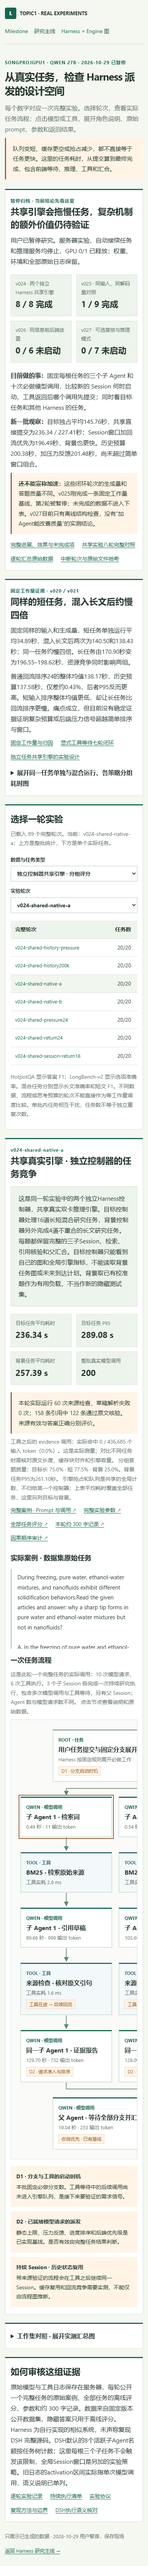
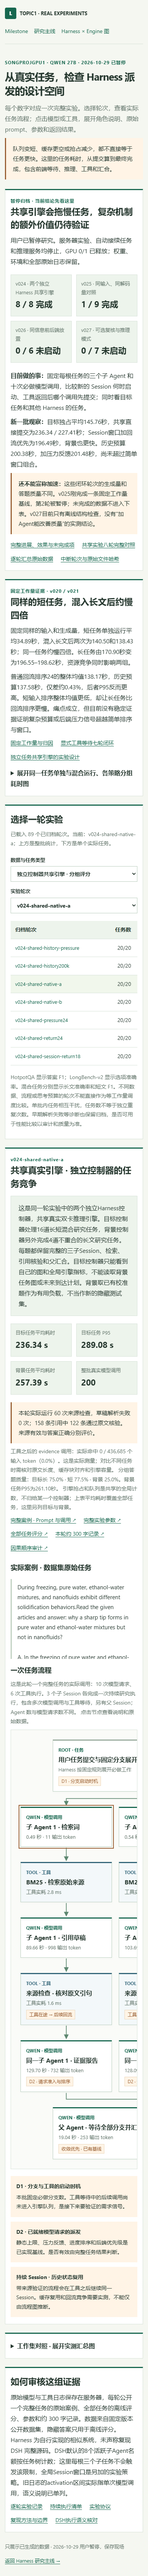
Fix UTF-8 Chinese experiment records and paused navigation status

Changed region(s): [[0.0308, 0.0311, 0.9231, 0.9954]]

diff --git a/LLM_Optimization_Milestone/topic1-harness-engine.html b/LLM_Optimization_Milestone/topic1-harness-engine.html
@@ -15,7 +15,7 @@
 <div class="shell">
   <header class="top"><div class="brand"><b>L</b>LLM OPTIMIZATION · TOPIC1</div><nav class="nav" aria-label="页面导航"><a href="LLM_Optimization_Milestone.html">Milestone</a><a href="topic1-four-workflows.html#harness-engine">交互派发图</a><a href="topic1-harness-engine-study-20261029.md">完整分析与实验方案</a><a href="topic1-harness-lifecycle.html">DSH 实现背景</a><a href="topic1-experiments.html">真实实验与原始调用</a></nav></header>
   <main>
-    <section class="hero"><p class="eyebrow">CURRENT FOCUS · HARNESS ↔ ENGINE · 2026-10-29</p><h1>前端派发改变的，<br>不止当前队列</h1><p class="lead">研究 Harness 如何结合推理引擎状态，决定 DAG 何时展开、当前工作如何分波派发。先从任务推进与资源代价的冲突寻找痛点，再用真实执行验证；不限于某个 Harness 的实例生命周期。</p><div class="status"><span class="tag">主线：动态 DAG 的展开与派发</span><span class="tag">实现载体 ≠ 研究边界</span><span class="tag hyp">研究假设 · 尚无实测收益或新颖性结论</span></div></section>
+    <section class="hero"><p class="eyebrow">CURRENT FOCUS · HARNESS ↔ ENGINE · 2026-10-29</p><h1>前端派发改变的，<br>不止当前队列</h1><p class="lead">研究 Harness 如何结合推理引擎状态，决定 DAG 何时展开、当前工作如何分波派发。先从任务推进与资源代价的冲突寻找痛点，再用真实执行验证；不限于某个 Harness 的实例生命周期。</p><div class="status"><span class="tag">主线：动态 DAG 的展开与派发</span><span class="tag">实现载体 ≠ 研究边界</span><span class="tag hyp">已实测干扰 · 机制额外收益待验证 · 已暂停</span></div></section>
 
     <section class="panel" aria-labelledby="question"><h2 id="question">要优化的到底是什么？</h2><div class="thesis">任务语义决定一次执行的价值，引擎状态决定它的代价；而这次执行，又会改变后续负载。</div><p class="intro">目标是让用户更早得到有效的最终结果，并在相同质量与资源下完成更多任务。可见队列变短、单次调用变快，都不足以单独证明成功。</p><div class="split"><div class="box"><h3>Harness 知道：接下来可能发生什么</h3><p>已揭示依赖、结果如何汇合、哪些分支尚未启动、哪些工作正在等工具、哪些探索允许省略。未来的完整图和准确工具输出通常未知。</p></div><div class="box"><h3>Engine 知道：现在做它实际有多贵</h3><p>模型队列、实际 KV 驻留与命中、额外 prefill、batch 干扰、可分配容量。空闲显存和请求数无法独立代表完整执行成本。</p></div></div><div class="exchange"><div><b>Harness → Engine · 任务与工作信息</b>依赖、当前合法调用、已知展开规则、工具中工作与不确定性。</div><div><b>Engine → Harness · 执行成本与状态反馈</b>真实队列、容量与缓存情况、接受或失败结果；由引擎最终核验容量。</div></div><p class="footnote">Workflow 定义哪些工作合法、什么算完成；Harness 负责把它推进成具体调用；Engine 决定资源如何执行。协同可以跨这三层，不能都叫“调整 Agent 数”。</p></section>
 
@@ -34,7 +34,7 @@
 
     <section class="panel"><h2>最关键的反问：后端拿到同样信息，能不能做？</h2><div class="split"><div class="box"><h3>仅改变已就绪请求的顺序</h3><p>如果工作与 prompt 都已确定，前端排队通常能被有相同 DAG 信息的后端策略替代。必须比较同信息的工作流感知后端，防止把排队从一层搬到另一层。</p></div><div class="box"><h3>改变请求形成之前的工作</h3><p>在分支触发工具之前选择启动时机；利用部分结果决定是否展开可选工作；暴露动态生成图的已知规则。这些动作需要 Harness 语义或回调，也是更值得检验的控制空间。</p></div></div><div class="boundary">即使动作发生在 Harness，也可能由后端通过回调发起。比较相同信息、相同动作权限后，剩下的机制收益才有说服力。新的协议名字或代码位置不足以形成贡献。</div></section>
 
-    <section class="panel" id="experiments"><h2>先做两个实验，回答不同的问题</h2><div class="split"><article class="experiment"><p class="eyebrow">E1 · 必做工作固定</p><h3>看见当前请求之外的工作，有没有价值？</h3><p><b>首选载体：</b>ODR 的 supervisor → researchers → 搜索／阅读 → 汇总；先量实际并发与工具中工作。递归研究和窄前沿条件检索作边界。</p><p><b>动作：</b>分波启动已获准分支、暂缓／提交合法调用。固定必做工作与原始配置，不靠减任务获益。</p><p><b>对照：</b>原生调度 → 引擎压力 → DAG＋缓存 → 在途工作与简单背压 → 联合展开；再加同信息、同动作权限的后端对照。</p><p><b>结果：</b>用户提交到有效最终结果的 P50/P95、按时完成任务数、两层等待总和、实际 KV／prefill、工具延迟、公平性和控制开销。</p></article><article class="experiment"><p class="eyebrow">E2 · 工作量允许变化</p><h3>部分结果与实际资源代价，是否应该共同决定扩展？</h3><p><b>条件：</b>应用有可选工作与有效在线验证，例如代码公开测试；隐藏测试仅离线评分。</p><p><b>动作：</b>下一候选何时启动、失败后是否继续、可选 review／迭代；必做工作不受影响。</p><p><b>对照：</b>全部并行、串行失败再展开、固定波次、压力策略、质量反馈，以及 Murakkab／INFRAMIND 相关机制组合。</p><p><b>结果：</b>质量—任务耗时—实际成本曲线，及给其他任务带来的收益。不能只报少生成几个 token。</p></article></div><details><summary>实验可信度：必须防止哪些假收益？</summary><div class="detail-body"><p><b>不转移排队：</b>计时从用户任务提交开始，包括前端等待。不能只看 Engine queue 或 TTFT。</p><p><b>不偷看未来：</b>在线使用已揭示图、工具已等待时长与历史分布；准确返回时间只可用于标明的上界对照。</p><p><b>不固定错误到达时间：</b>回放按依赖与相对工具时长推进；修改派发以后，原始绝对请求到达时间不再有效。录制 prompt/结果回放只能诊断系统效应，后续仍需真实闭环。</p><p><b>不偷换 ODR 配置：</b>原生并发配置还会进入规划 prompt，超出的调用会收到错误。固定原配置，在已获准工作外加分波，避免把任务删减当调度收益。</p><p><b>不假定宽并发：</b>生产研究曾观察到很少的兄弟请求执行重叠；先测目标 workload。若前沿长期只有一个节点，就检查阶段衔接，不编造宽 fan-out 动机。</p></div></details><p class="footnote">已在 songprojgpu1 接入真实 Qwen 27B 引擎，正在检验工作集、工具回流和派发机制。<a href="topic1-experiments.html">查看真实流程、逐轮指标与完整 Prompt</a>。具体信号、动作、比较组、消融与继续条件见 <a href="topic1-harness-engine-study-20261029.md">完整实验方案</a>。</p></section>
+    <section class="panel" id="experiments"><h2>先做两个实验，回答不同的问题</h2><div class="split"><article class="experiment"><p class="eyebrow">E1 · 必做工作固定</p><h3>看见当前请求之外的工作，有没有价值？</h3><p><b>首选载体：</b>ODR 的 supervisor → researchers → 搜索／阅读 → 汇总；先量实际并发与工具中工作。递归研究和窄前沿条件检索作边界。</p><p><b>动作：</b>分波启动已获准分支、暂缓／提交合法调用。固定必做工作与原始配置，不靠减任务获益。</p><p><b>对照：</b>原生调度 → 引擎压力 → DAG＋缓存 → 在途工作与简单背压 → 联合展开；再加同信息、同动作权限的后端对照。</p><p><b>结果：</b>用户提交到有效最终结果的 P50/P95、按时完成任务数、两层等待总和、实际 KV／prefill、工具延迟、公平性和控制开销。</p></article><article class="experiment"><p class="eyebrow">E2 · 工作量允许变化</p><h3>部分结果与实际资源代价，是否应该共同决定扩展？</h3><p><b>条件：</b>应用有可选工作与有效在线验证，例如代码公开测试；隐藏测试仅离线评分。</p><p><b>动作：</b>下一候选何时启动、失败后是否继续、可选 review／迭代；必做工作不受影响。</p><p><b>对照：</b>全部并行、串行失败再展开、固定波次、压力策略、质量反馈，以及 Murakkab／INFRAMIND 相关机制组合。</p><p><b>结果：</b>质量—任务耗时—实际成本曲线，及给其他任务带来的收益。不能只报少生成几个 token。</p></article></div><details><summary>实验可信度：必须防止哪些假收益？</summary><div class="detail-body"><p><b>不转移排队：</b>计时从用户任务提交开始，包括前端等待。不能只看 Engine queue 或 TTFT。</p><p><b>不偷看未来：</b>在线使用已揭示图、工具已等待时长与历史分布；准确返回时间只可用于标明的上界对照。</p><p><b>不固定错误到达时间：</b>回放按依赖与相对工具时长推进；修改派发以后，原始绝对请求到达时间不再有效。录制 prompt/结果回放只能诊断系统效应，后续仍需真实闭环。</p><p><b>不偷换 ODR 配置：</b>原生并发配置还会进入规划 prompt，超出的调用会收到错误。固定原配置，在已获准工作外加分波，避免把任务删减当调度收益。</p><p><b>不假定宽并发：</b>生产研究曾观察到很少的兄弟请求执行重叠；先测目标 workload。若前沿长期只有一个节点，就检查阶段衔接，不编造宽 fan-out 动机。</p></div></details><p class="footnote">已在 songprojgpu1 完成多批真实 Qwen 27B 实验；2026-10-29 用户暂停，实验与服务已停止。混合干扰成立，复杂机制尚未稳定超越简单排序与窗口。<a href="topic1-experiments.html">查看暂停进展、真实流程、逐轮指标与完整 Prompt</a>。具体信号、动作、比较组、消融与继续条件见 <a href="topic1-harness-engine-study-20261029.md">完整实验方案</a>。</p></section>
 
     <section class="panel"><h2>已有工作与这次判断的边界</h2><div class="table-wrap"><table><thead><tr><th>参照</th><th>不能再声称空白</th><th>本轮如何处理</th></tr></thead><tbody><tr><td>INFRAMIND / Murakkab</td><td>资源感知拓扑、候选数、动态 coding 与质量／成本配置</td><td>E2 直接近邻；比较其机制组合，不把动态 Agent 数量当创新</td></tr><tr><td>TOPAS / SAGA / Coda</td><td>工作流进度、状态准备、缓存与请求准入的联动</td><td>E1 强基线；给后端同样的依赖信息</td></tr><tr><td>Nalar / HEAR</td><td>动态工作流、双向语义、可修订控制与跨层策略</td><td>可用的实现／语义基础，不能说它们只看静态图或只交换信息</td></tr><tr><td>CONCUR / Crossflow</td><td>反馈并发控制、资源 lease 与原子协调</td><td>鲁棒性基线；不为控制通道本身另立创新</td></tr></tbody></table></div><details><summary>查看原文来源与版本说明</summary><div class="detail-body"><ul class="sources"><li><a href="https://arxiv.org/abs/2606.11440">INFRAMIND</a>：初始规划、逐步路由及结论中的 runtime topology revision。</li><li><a href="https://www.usenix.org/conference/osdi26/presentation/chaudhry">Murakkab OSDI 2026</a>：§4.4、Figure 10，PDF 第 12 页／印刷页 577。旧 arXiv HTML 缺新增动态 coding 段，不能只按旧稿判断。</li><li><a href="https://arxiv.org/abs/2608.25523">TOPAS</a>、<a href="https://arxiv.org/abs/2605.00528">SAGA</a>、<a href="https://arxiv.org/abs/2610.03088">Coda</a>：缓存／准备成本与工作流调度的直接对照。</li><li><a href="https://arxiv.org/abs/2601.05109">Nalar</a>、<a href="https://arxiv.org/abs/2610.06597">HEAR</a>：动态 runtime 与跨层协调；<a href="https://arxiv.org/abs/2601.22705">CONCUR</a>、<a href="https://arxiv.org/abs/2609.27085">Crossflow</a>：反馈与容量控制。</li><li><a href="https://arxiv.org/abs/2609.34432">生产 Agent serving 测量</a>：逻辑分支不等于实际执行重叠；该平台的观测不能直接推广到所有 Harness。</li><li><a href="https://arxiv.org/abs/2504.07347v3">Throughput-Optimal Scheduling</a>：模型假设下 DAG/fork-join 也可由一类 work-conserving 调度达到吞吐最优；动机需要具体资源条件与任务指标。</li><li><a href="https://github.com/langchain-ai/open_deep_research/blob/1b7d2e80db9faa586165c60e09096dbbfd483a64/src/open_deep_research/deep_researcher.py#L282">ODR 固定版本源码</a>：并行研究、gather、上限与 overflow；源码结构不是性能 trace。</li></ul></div></details></section>
   </main>

diff --git a/LLM_Optimization_Milestone/topic1-experiments.html b/LLM_Optimization_Milestone/topic1-experiments.html
@@ -13,7 +13,7 @@
 <section class="hero"><p class="eyebrow">SONGPROJGPU1 · QWEN 27B · 2026-10-29 已暂停</p><h1>从真实任务，检查 Harness 派发的设计空间</h1><p class="lead">每个数字对应一次完整实验。选择轮次，查看实际任务流程；点击模型或工具，展开角色说明、原始 prompt、参数和返回结果。</p><div class="notice">队列变短、缓存更空或抢占减少，都不直接等于任务更快。这里的任务耗时，从提交算到最终完成，包含前端等待、推理、工具和汇合。</div></section>
 <section class="panel" id="pause-progress"><p class="eyebrow">暂停归档 · 当前结论先看这里</p><h2>共享引擎会拖慢任务，复杂机制的额外价值仍待验证</h2><p>用户已暂停研究。服务器实验、自动接续任务和推理服务均停止，GPU 0/1 已释放；权重、环境和全部原始日志保留。</p><div class="stats"><div class="stat"><span>v024 · 两个独立 Harness 共享引擎</span><b>8 / 8 完成</b></div><div class="stat"><span>v025 · 同输入、同解码量对照</span><b>1 / 9 完成</b></div><div class="stat"><span>v026 · 同信息前后端放置</span><b>0 / 6 未启动</b></div><div class="stat"><span>v027 · 可选复核与推理模式</span><b>0 / 7 未启动</b></div></div><p><b>目前做的事：</b>固定每根任务的三个子 Agent 和十次必做模型调用，比较新的 Session 何时启动、工具返回后哪个调用先提交；同时看目标任务和其他 Harness 的任务。</p><p><b>新一批观察：</b>目标独占平均145.76秒，共享直接提交为236.34 / 227.41秒；Session窗口加回流优先为196.49秒，背景也更快。历史预算200.38秒，加压力反馈201.48秒，尚未超过简单窗口组合。</p><div class="notice"><b>还不能宣称加速：</b>这些闭环轮次的生成量和答题质量不同。v025刚完成一条固定工作量基线，第2轮被暂停；未完成的数据不进入下表。v027目前只有离线结构检查，没有“加Agent能改善质量”的实测结论。</div><div class="links" style="margin-top:16px"><a href="../experiments/harness-engine/notes/paused-progress-20261029.md">完整进展、效果与未完成项</a><a href="../experiments/harness-engine/notes/v024-shared-outcome.md">共享实验八轮完整对照</a><a href="../experiments/harness-engine/results/v024-shared-comparison.json">逐轮汇总原始数据</a><a href="../experiments/harness-engine/evidence/pause-20261029/interrupted-run.json">中断轮次与原始文件哈希</a></div></section>
 <section class="panel"><p class="eyebrow">固定工作量证据 · v020 / v021</p><h2>同样的短任务，混入长文后约慢四倍</h2><p>固定同样的输入和生成量，短任务单独运行平均34.89秒，混入长文后两次为140.50和138.43秒；同一任务约慢四倍。长任务由170.90秒变为196.55–198.62秒，资源竞争同时影响两组。</p><p>普通回流排序24的整体均值138.17秒，历史预算137.58秒，仅差约0.43%，后者P95反而更高。短输入排序整体均值更低，却让长任务比回流排序更慢。痛点成立，但目前没有稳定证据证明复杂预算或后端压力信号超越简单排序与窗口。</p><div class="links"><a href="../experiments/harness-engine/notes/v021-interference-outcome.md">固定工作量与归因</a><a href="../experiments/harness-engine/notes/v020-tool-delay-outcome.md">显式工具等待七轮闭环</a><a href="../experiments/harness-engine/notes/shared-load-v024.md">独立任务共享引擎的实验设计</a></div><details style="margin-top:16px"><summary style="cursor:pointer;font-weight:650">展开同一任务单独与混合运行、各策略分组耗时图</summary><a href="../experiments/harness-engine/results/figures-v021/mixed-interference.svg" target="_blank" rel="noopener"><img src="../experiments/harness-engine/results/figures-v021/mixed-interference.png" alt="固定160份输入和66893个解码token，短任务混合干扰约四倍；历史预算未超越普通回流排序" loading="lazy" style="width:100%;height:auto;display:block"></a><p class="muted"><a href="../experiments/harness-engine/results/figures-v021/mixed-interference.json">作图真实数据</a> · <a href="../experiments/harness-engine/results/v021-interference.md">完整分组对照</a>。回放冻结上游文本，仅用于系统归因；闭环质量另看下方实际实验。</p></details></section>
-<section class="panel"><h2>选择一轮实验</h2><p id="status" class="muted" role="status">正在读取已完成的实验记录…</p><div class="controls"><label>数据与任务类型<select id="dataset"><option value="all">全部已完成轮次</option><option value="short">HotpotQA · 短文多跳调查</option><option value="long">LongBench-v2 · 原始全文研究</option><option value="mixed">长短上下文混合 · 分组评分</option><option value="shared">独立控制器共享引擎 · 分组评分</option></select></label><label>实验轮次<select id="run" aria-label="选择实验轮次"></select></label></div><div class="table-wrap"><table><thead><tr><th>完整轮次</th><th>任务数</th><th>模型调用</th><th>答题得分</th><th>任务平均 / 秒</th><th>P95 / 秒</th><th>抢占次数</th></tr></thead><tbody id="rounds"></tbody></table></div><p class="muted">HotpotQA 显示答案 F1；LongBench-v2 显示选项准确率。混合任务分别显示长文准确率和短文 F1。不同数据、流程或思考预算的轮次不能直接作为等工作量调度比较。单批内任务相互干扰，任务数不等于独立重复次数。</p></section>
+<section class="panel"><h2>选择一轮实验</h2><p id="status" class="muted" role="status">正在读取已完成的实验记录…</p><div class="controls"><label>数据与任务类型<select id="dataset"><option value="all">全部已归档轮次</option><option value="short">HotpotQA · 短文多跳调查</option><option value="long">LongBench-v2 · 原始全文研究</option><option value="mixed">长短上下文混合 · 分组评分</option><option value="shared">独立控制器共享引擎 · 分组评分</option></select></label><label>实验轮次<select id="run" aria-label="选择实验轮次"></select></label></div><div class="table-wrap"><table><thead><tr><th>归档轮次</th><th>任务数</th><th>模型调用</th><th>答题得分</th><th>任务平均 / 秒</th><th>P95 / 秒</th><th>抢占次数</th></tr></thead><tbody id="rounds"></tbody></table></div><p class="muted">HotpotQA 显示答案 F1；LongBench-v2 显示选项准确率。混合任务分别显示长文准确率和短文 F1。不同数据、流程或思考预算的轮次不能直接作为等工作量调度比较。单批内任务相互干扰，任务数不等于独立重复次数。早期解析失败等诊断也保留归档，是否可用于性能比较以审计和质量为准。</p></section>
 <section class="panel" id="detail" hidden><p class="eyebrow" id="run-label"></p><h2 id="run-title"></h2><div class="purpose" id="purpose"></div><div class="stats" id="stats"></div><p class="notice" id="validation-note"></p><p class="muted" id="cache-note"></p><div class="links" id="links"></div><h3 style="margin-top:24px">实际案例 · 数据集原始任务</h3><div class="question" id="question"></div><h3>一次任务流程</h3><p class="muted" id="graph-caption"></p><div class="flow-wrap"><div class="flow" id="flow"></div></div><div class="callouts"><div><b>D1 · 分支与工具的启动时机</b>本批固定必做分支数。工具等待中的后续调用尚未进入引擎队列，是接下来要验证的需求信号。</div><div><b>D2 · 已就绪模型请求的派发</b>静态上限、压力反馈、进度排序和后端优先级是已实现基线。是否有效由完整任务结果判断。</div><div><b>持续 Session · 历史状态复用</b>带来源验证的流程会在工具之后继续同一 Session。缓存复用和回流竞争需要实测，不能仅由流程图推断。</div></div></section>
 <section class="panel"><details><summary style="cursor:pointer;font-weight:650">工作集对照 · 展开实测汇总图</summary><p class="muted">相同八题、十次必做调用；包含全部等待。每种设置目前只有单轮或少量重复，没有批次置信区间。更高命中率不保证更低任务时延，图下注明准确率与实际输出量。</p><a href="../experiments/harness-engine/results/figures-v014/measured-rounds.svg" target="_blank" rel="noopener"><img src="../experiments/harness-engine/results/figures-v014/measured-rounds.png" alt="真实长文工作图：任务耗时、缓存命中和抢占对照" style="width:100%;height:auto;display:block" loading="lazy"></a><p><a href="../experiments/harness-engine/results/v014-comparison.md">完整逐轮对照</a> · <a href="../experiments/harness-engine/results/figures-v014/measured-rounds.json">作图原始数据</a></p></details></section><section class="panel"><h2>如何审核这组证据</h2><p>原始模型与工具日志保存在服务器，每轮公开一个完整任务的原始案例、全部任务的离线评分、参数和约 300 字记录。数据来自固定版本公开数据集，隐藏答案只用于离线评分。Harness 为自行实现的相似系统，未声称复现 DSH 完整源码。DSH默认的8个活跃子Agent名额按任务树计数；这里每根三个子任务不会触发该限制，全局Session窗口是另加的实验策略。旧日志的activation区间实际指单次模型调用，语义说明已单列。</p><div class="links"><a href="../experiments/harness-engine/RESEARCH_LOG.md">逐轮实验记录</a><a href="../experiments/harness-engine/PLAN.md">持续执行清单</a><a href="../experiments/harness-engine/PROTOCOL.md">实验协议</a><a href="../experiments/harness-engine/README.md">复现方法与边界</a><a href="../experiments/harness-engine/notes/dsh-execution-semantics-v2.md">DSH执行语义核对</a></div></section>
 </main><footer class="footer"><span>只展示已生成的数据 · 2026-10-29 用户暂停，保存现场</span><a href="topic1-harness-engine.html">返回 Harness 研究主线 →</a></footer></div>

diff --git a/LLM_Optimization_Milestone/topic1-experiments.js b/LLM_Optimization_Milestone/topic1-experiments.js
@@ -92,7 +92,7 @@ async function selectRun(id){
    $('cache-note').textContent+=` 分组答题质量：${qualityText(entry)}。${background?`背景任务P95为${fmt(background.root_latency_seconds.p95)}秒。`:''} 引擎抢占和队列是共享的全局计数，不归给某一个控制器；上表平均耗时覆盖全部任务，这里另列目标与背景。`;
   }
   $('links').innerHTML=Object.entries({'raw-example.json':'完整案例 · Prompt 与调用','config.json':'完整实验参数','scored.jsonl':'全部任务评分','research_record.md':'本轮约 300 字记录','audit.json':'因果顺序审计','history_audit.json':'历史回流间隔审计','token_audit.json':'实际 token 前缀审计'}).filter(([p])=>entry.paths[p]).map(([p,label])=>`<a href="${esc(base+entry.paths[p])}" target="_blank" rel="noopener">${label} ↗</a>`).join('');
-  $('question').textContent=sample.task.question;graph(config,sample);$('status').textContent=`已载入 ${rounds.length} 个完整轮次。当前：${id}；上方是整批统计，下方是单个实际任务。`;history.replaceState(null,'','#'+encodeURIComponent(id));
+  $('question').textContent=sample.task.question;graph(config,sample);$('status').textContent=`已载入 ${rounds.length} 个已归档轮次。当前：${id}；上方是整批统计，下方是单个实际任务。`;history.replaceState(null,'','#'+encodeURIComponent(id));
  }catch(error){if(ticket===loadVersion)$('status').textContent='案例暂未加载。可通过下方的逐轮实验记录查看完整证据。';console.error(error);}
 }
 $('close').onclick=closeDrawer;$('backdrop').onclick=closeDrawer;$('run').onchange=()=>selectRun($('run').value);$('dataset').onchange=selectOptions;

diff --git a/experiments/harness-engine/verify_web.py b/experiments/harness-engine/verify_web.py
@@ -24,6 +24,12 @@ def main():
     url = f'http://127.0.0.1:{server.server_port}/LLM_Optimization_Milestone/topic1-experiments.html'
     errors, missing = [], []
     report = {}
+    records = ['notes/paused-progress-20261029.md', 'notes/v024-shared-outcome.md', 'RESEARCH_LOG.md']
+    for name in records:
+        content = (Path(__file__).parent/name).read_text(encoding='utf-8')
+        assert '????' not in content and '\ufffd' not in content, f'Broken Unicode text: {name}'
+        assert any('\u4e00' <= character <= '\u9fff' for character in content), f'Missing Chinese text: {name}'
+    report['chinese_records_valid_utf8'] = records
     try:
         with sync_playwright() as playwright:
             browser = playwright.chromium.launch(executable_path='C:/Program Files (x86)/Microsoft/Edge/Application/msedge.exe', headless=True)
@@ -63,6 +69,9 @@ def main():
             page.select_option('#dataset', 'mixed')
             page.wait_for_function("document.querySelector('#run-title').textContent.includes('长短上下文混合')")
             report['mixed_visible_rows'] = page.locator('#rounds tr').count()
+            page.goto(url.replace('topic1-experiments.html', 'topic1-harness-engine.html'))
+            report['main_page_paused_status'] = '已暂停' in page.locator('.status').inner_text()
+            assert report['main_page_paused_status']
             report['page_errors'] = errors; report['missing_resources'] = missing
             assert not errors and not missing
             browser.close()

diff --git a/experiments/harness-engine/notes/v024-shared-outcome.md b/experiments/harness-engine/notes/v024-shared-outcome.md
@@ -1,12 +1,12 @@
-# v024 ? ????????????????
+# v024 · 独立控制器共享引擎：八轮闭环结果
 
-??????????16???????????????4????????10??????6??????????????????????????????????????????????????
+八轮全部完成。目标为16题长短混合任务；背景开启时另做4道长文任务。每题10次模型调用和6次真实工具，所有必做工作与依赖审计通过，模型错误与根任务错误为零。计时从任务提交开始，包含前端等待。
 
-**???????????????** ????????????????????????????20?????20?????????????1/4???????????????????
+**本表不代表固定工作量加速结论。** 生成量与回答质量会变化；每策略只有单轮或少量重复，不能把20个任务当作20次独立系统重复。背景四题仅1/4答对，不能据此声称高质量通用应用验证。
 
-| ?? | ????/s | ??P95/s | ????/s | ????EM | ????F1 | ????token | ???? |
+| 轮次 | 目标均值/s | 目标P95/s | 背景均值/s | 目标长文EM | 目标短文F1 | 全部输出token | 模型调用 |
 |---|---:|---:|---:|---:|---:|---:|---:|
-| [v024-target-only-native](../results/v024-target-only-native/summary.json) | 145.76 | 195.03 | ? | 0.625 | 0.800 | 68,179 | 160 |
+| [v024-target-only-native](../results/v024-target-only-native/summary.json) | 145.76 | 195.03 | — | 0.625 | 0.800 | 68,179 | 160 |
 | [v024-shared-native-a](../results/v024-shared-native-a/summary.json) | 236.34 | 289.08 | 257.39 | 0.750 | 0.775 | 96,905 | 200 |
 | [v024-shared-return24](../results/v024-shared-return24/summary.json) | 218.27 | 290.27 | 230.01 | 0.500 | 0.767 | 94,298 | 200 |
 | [v024-shared-pressure24](../results/v024-shared-pressure24/summary.json) | 228.88 | 278.82 | 220.49 | 0.625 | 0.792 | 95,706 | 200 |
@@ -15,16 +15,16 @@
 | [v024-shared-session-return18](../results/v024-shared-session-return18/summary.json) | 196.49 | 273.88 | 216.82 | 0.750 | 0.792 | 94,109 | 200 |
 | [v024-shared-native-b](../results/v024-shared-native-b/summary.json) | 227.41 | 276.13 | 269.45 | 0.625 | 0.653 | 96,086 | 200 |
 
-## ???????
+## 可以得出的判断
 
-????145.76??????????236.34/227.41????????????????????218.27??Session????????196.49??????6/8???F1?0.792???216.82??????200.38??????201.48????????????????????228.88???????????????????????????????????
+目标独占145.76秒，共享直接派发两次236.34/227.41秒，闭环观察到外部负载的影响。普通回流为218.27秒；Session窗口加同样排序为196.49秒，目标长文6/8、短文F1为0.792，背景216.82秒。历史预算200.38秒，再加压力201.48秒，尚未超越这个简单组合。仅压力反馈目标228.88秒，落在直接提交两轮之间，因此不能声称实时压力信号已带来稳定额外收益。
 
-?????????????????????????????????????94,109 token???????96,905/96,086????????????????v025???????????????????????????????????????????
+窗口组合的目标与背景耗时均较两次直接提交低，是值得保留的候选；但它的总输出94,109 token，直接提交分别96,905/96,086，其他方案也有工作量和质量变化。v025必须继续用相同输入、逐调用相同解码配额做对照后才能归因，而本次用户已暂停，不继续执行。
 
-## ?????
+## 记录与复现
 
-???[shared-load-v024.json](../configs/shared-load-v024.json)??????[v024-shared-comparison.json](../results/v024-shared-comparison.json)?????????config?summary????scored?audit????????raw-example??300????????/?????????????????????runs???
+配置：[shared-load-v024.json](../configs/shared-load-v024.json)。可读数据：[v024-shared-comparison.json](../results/v024-shared-comparison.json)。各轮目录包含完整config、summary、逐任务scored、audit、一个完整任务的raw-example和约300字记录；全部请求/响应、工具、事件与引擎采样保存在服务器同名runs目录。
 
-v025???????200????96,905???token???????237.11????258.04??????????????????2????????????????????????????v026???v027???????
+v025只完成第一轮，200份输入和96,905个解码token核对一致，目标237.11秒、背景258.04秒；没有其他策略完整轮，不能比较。第2轮被用户暂停，部分日志单列在暂停证据中，不进入实测索引。v026六轮与v027七轮均未启动。
 
-?????????????????????????????????????????DAG????????????????????????????????????
+本轮背景来源是已有校准样本，用作实际有用负载，不声称新隐藏测试集；控制器看不到对方DAG和未来计划。阶段优先级、固定窗口、历史预算和压力策略均按各配置完整保留。

diff --git a/experiments/harness-engine/README.md b/experiments/harness-engine/README.md
@@ -6,7 +6,7 @@
 
 ## 当前应用
 
-当前服务为 Qwen3.8-27B BF16、双 A800、图执行、64K 上下文、48 条引擎序列上限、8192 batched tokens，启用前缀缓存、分块 prefill、阶段优先级和逐请求遥测。最新工作是 `verified`：三个持久子 Session 各执行 query → BM25 → draft → 来源核验 → evidence，父 Session 等待全部分支，每个根任务十次必做调用。长文来自固定版本 LongBench-v2，原始全文未截断或补字。来源核验仅判断引句出处，答案由隐藏标签离线评分；两者分别报告。
+暂停前服务为 Qwen3.8-27B BF16、双 A800、图执行、64K 上下文、48 条引擎序列上限、8192 batched tokens，启用前缀缓存、分块 prefill、阶段优先级和逐请求遥测。最新工作是 `verified`：三个持久子 Session 各执行 query → BM25 → draft → 来源核验 → evidence，父 Session 等待全部分支，每个根任务十次必做调用。长文来自固定版本 LongBench-v2，原始全文未截断或补字。来源核验仅判断引句出处，答案由隐藏标签离线评分；两者分别报告。
 
 最新状态见 [CONTINUE.md](CONTINUE.md)，网页见 [真实流程与原始调用](../../LLM_Optimization_Milestone/topic1-experiments.html)。v020已完成七轮显式工具等待干预；v021已完成十一轮同输入、同生成配额的混合回放。短任务独占34.89秒、混合138.43–140.50秒，干扰成立；历史预算137.58秒与普通回流24的138.17秒近似，复杂机制的独立优势尚未成立。详见 [分组归因](notes/v021-interference-outcome.md) 与 [工具等待闭环](notes/v020-tool-delay-outcome.md)。
 
